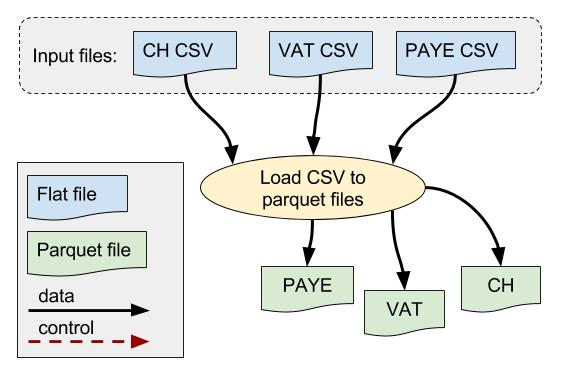
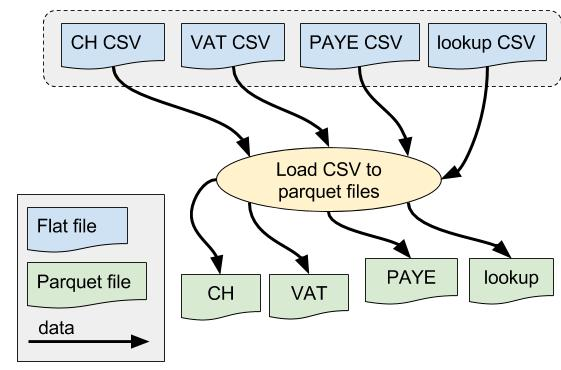
Updated docs to reflect additional lookups, and to include pending UBRN processing.

diff --git a/docs/bi-dataload-step-0.md b/docs/bi-dataload-step-0.md
@@ -65,10 +65,20 @@
 
 * Each run's Links will **replace the existing Links in the ElasticSearch index** i.e. we **do not retain old Links data**  from one run to the next.
 
+### Previous Links files ###
+
+* See [File locations](./bi-dataload-file-locations.md).
+* Every time we run the data ingestion process, we generate a new file of Links with UBRNs (in Parquet format).
+* This file is saved into the application working directory, as it will be used in subsequent steps in the data ingestion process.
+* It is also saved to the "PREVIOUS" folder, ready to be picked up as the "previous links" for the next run.
+* This over-writes the "previous links" file from the last run.
+* The new Links file is also saved in a time-stamped folder under the "PREVIOUS" folder, so we always have a back-up of the Links with UBRNs for a given run.
 
 ### UBRN and Links comparisons ###
 
-* The current data ingestion process applies simplified business rules for checking whether a new Link matches a Link from the previous run.
+#### Current partial implementation (May 2017) ####
+
+* The current data ingestion process (May 2017) applies simplified business rules for checking whether a new Link matches a Link from the previous run.
 
 ```
 	IF (old CH IS NOT NULL AND new CH IS NOT NULL)
@@ -89,14 +99,46 @@
 * The remaining Links may need to be checked further if more refined business matching rules are required.
 * However, this implementation should cover the vast majority of Link matches from one run to the next.
 
-### Previous Links files ###
+#### Full implementation (pending) ####
 
-* See [File locations](./bi-dataload-file-locations.md).
-* Every time we run the data ingestion process, we generate a new file of Links with UBRNs (in Parquet format).
-* This file is saved into the application working directory, as it will be used in subsequent steps in the data ingestion process.
-* It is also saved to the "PREVIOUS" folder, ready to be picked up as the "previous links" for the next run.
-* This over-writes the "previous links" file from the last run.
-* The new Links file is also saved in a time-stamped folder under the "PREVIOUS" folder, so we always have a back-up of the Links with UBRNs for a given run.
+* We defined a full set of rules for UBRN matching and implemented these in April-May 2017.
+* However, these require us to use SQL features that are provided via Spark's HiveContext, not the basic SQLContext.
+* There are problems running this code via Oozie on our current Cloudera platform.
+* We have been advised to upgrade our Cloudera installation, which will also move us to Spark version 2.x.
+* We are waiting for this to be done, so that we can modify our code accordingly and reinstate the full set of UBRN rules.
+
+```
+	IF (old CH IS NOT NULL AND new CH IS NOT NULL)
+	AND (old CH = new CH)
+	THEN
+	  use old UBRN for new Link record
+	ELSIF (old CH IS NULL AND new CH IS NULL)
+	AND (old contents = new contents)
+	THEN
+	  use old UBRN for new Link record
+	ELSIF (old VAT = new VAT)
+	THEN
+	  use old UBRN for new Link record
+	ELSIF (old PAYE = new PAYE)
+	THEN
+	  use old UBRN for new Link record 
+	ELSE
+	  allocate new UBRN
+	END IF
+```
+#### Applying UBRN rules ####
+
+* Each matching rule is applied in turn via Apark SQL queries using the same basic logic:
+
+![MacDown Screenshot](./UBRN-match-queries.jpg)
+
+* We separate the matched records at each stage and only pass the **unmatched** records into the next matching rule.
+
+![MacDown Screenshot](./UBRN-applying-rules.jpg)
+
+* After applying all the rules, any remaining new Link records are allocated a new UBRN as described previously.
+* The combined set of new Link records with UBRNs is then assembled and saved to HDFS.
+
 
 ## Running step 0 ##
 
@@ -116,14 +158,15 @@
 >	`-Dbi-dataload.app-data.env=dev`
 
 * The default value in the config file is "dev", but the parameter is included here to remind you that you may need to change it.
+* Set the JAR file to point to the current version of the packaged application.
 * The task parameters below also assume we are working in "dev" here.
 
 Page 1 Field | Contents
 ------------- | -------------
 Spark Master  | yarn-cluster
 Mode  | cluster
-App Name | ONS BI Dataload 1.2 Step 0 Pre-process Links
-Jars/py files | hdfs://dev4/ons.gov/businessIndex/dev/lib/business-index-dataload_2.10-1.2.jar
+App Name | ONS BI Dataload Pre-process Links
+Jars/py files | hdfs://dev4/ons.gov/businessIndex/dev/lib/business-index-dataload_2.10-1.3.jar
 Main class | uk.gov.ons.bi.dataload.PreprocessLinksApp
 
 Page 2 Field | Contents

diff --git a/docs/bi-dataload-step-2-lookups.md b/docs/bi-dataload-step-2-lookups.md
@@ -1,0 +1,44 @@
+# BI Dataload step 2: lookups for building Business Index entries #
+
+## Overall data flow ##
+
+![](./bi-dataload-step-2-data-flow.jpg)
+
+
+
+## What and why? ##
+
+* This step reads the Parquet files of source data i.e. Companies House, PAYE and VAT.
+* It also reads the Parquet file of Links with UBRNs.
+* It joins the Links to the corresponding CH/PAYE/VAT data and builds the corresponding Business Index entry.
+* The Business Index entries are then written to a Parquet file.
+* This allows us to separate the initial raw data-load in [step 1](./bi-dataload-step-1.md) from the more complicated processing needed to join the different data-sets and extract the required information.
+* The BI entries are written to a Parquet file so we can explore the data if necessary using Python Spark notebooks e.g. for investigating errors or validating the generated data.
+* The BI entries will be uploaded to ElasticSearch in [step 3](./bi-dataload-step-3.md).
+
+## How? ##
+
+### Data file locations ###
+
+* All files are held in HDFS.
+* The locations are specified via various configuration properties.
+* See [file locations](./bi-dataload-step-1.md) for further information.
+* The Parquet files are all stored in the specified Parquet working data directory.
+
+### Data formats ###
+
+* Parquet files hold their data schema and store data in an indexed and compressed columnar format.
+* This means Spark can select specific columns much more efficiently without having to load the entire data-set e.g. for joining the Links to CH/PAYE/VAT data.
+* The output Parquet file of Business Index entries contains only those fields that will be uploaded into ElasticSearch in [step 3](./bi-dataload-step-3.md).
+ 
+
+## Further information ##
+
+* [README](../README.md)
+
+> * [File locations](./bi-dataload-file-locations.md).
+> * [Step 0](./bi-dataload-step-0.md).
+> * [Step 1](./bi-dataload-step-1.md).
+> * [Step 2](./bi-dataload-step-2.md).
+> * [Step 3](./bi-dataload-step-3.md).
+> * [Testing](./bi-dataload-testing.md).

diff --git a/docs/bi-dataload-file-locations.md b/docs/bi-dataload-file-locations.md
@@ -40,6 +40,26 @@
            +-- [... see below ]
 ```
 
+### Lookup data ###
+
+* We may need additional reference data e.g. to look up PAYE TCN (STC) code and identify the corresponding SIC code to include in the Business Index entry.
+* This lookup data is provided as CSV files.
+* The CSV files will be placed in a lookups folder in HDFS:
+
+```
+/ons.gov
+    |
+    +-- businessIndex
+           |
+           +-- links:  contains Links JSON file 
+           |
+           +-- lookups: contains CSV files for lookups
+           |
+           +-- [... see below ]
+```
+* This data will be loaded into Parquet files, then integrated into Spark SQL queries as required.
+
+
 ## Application data ##
 
 * This application consists of a data-pipeline that needs to process different data-sets at different stages of the overall data flow.

diff --git a/docs/bi-dataload-step-2.md b/docs/bi-dataload-step-2.md
@@ -20,6 +20,14 @@
 * The BI entries are written to a Parquet file so we can explore the data if necessary using Python Spark notebooks e.g. for investigating errors or validating the generated data.
 * The BI entries will be uploaded to ElasticSearch in [step 3](./bi-dataload-step-3.md).
 
+### Lookups ###
+
+* The PAYE record does not hold the standard industry code (SIC).
+* Instead it contains a "TCN" or "STC" code.
+* We have a lookup file that allows us to find the SIC value for a given STC.
+* We perform this conversion as part of the Spark SQL processing when we fetch the PAYE data from its Parquet file.
+* The PAYE SIC value is then available for use if necessary in the final Business Index record.
+
 ## How? ##
 
 ### Data file locations ###

diff --git a/README.md b/README.md
@@ -1,6 +1,5 @@
 # ONS Business Indexes - data ingestion ##
-
-[![Build Status](https://travis-ci.org/ONSdigital/business-index-dataload.svg?branch=master)](https://travis-ci.org/ONSdigital/business-index-dataload) [![Codacy Badge](https://api.codacy.com/project/badge/Grade/f81d61b38d644085af0ad7573addad80)](https://www.codacy.com/app/ONSDigital/business-index-dataload?utm_source=github.com&utm_medium=referral&utm_content=ONSdigital/business-index-dataload&utm_campaign=badger) [![Coverage Status](https://coveralls.io/repos/github/ONSdigital/business-index-dataload/badge.svg?branch=develop)](https://coveralls.io/github/ONSdigital/business-index-dataload?branch=develop) 
+ 
 
 ![](./docs/bi-ingestion-data-flow.jpg)
 

diff --git a/docs/bi-dataload-step-1.md b/docs/bi-dataload-step-1.md
@@ -12,6 +12,7 @@
 * Spark can process Parquet files much more flexibly and efficiently than raw CSV or JSON data.
 * Also, the incoming data formats may change.
 * We convert the incoming files to Parquet as a first step, so that we can perform subsequent processing steps more efficiently.
+* Any lookup data, e.g. PAYE TCN (STC) code --> SIC code conversion, will be provided as CSV files and loaded in the same way here.
 
 ### Links data pre-processed separately ###
 
